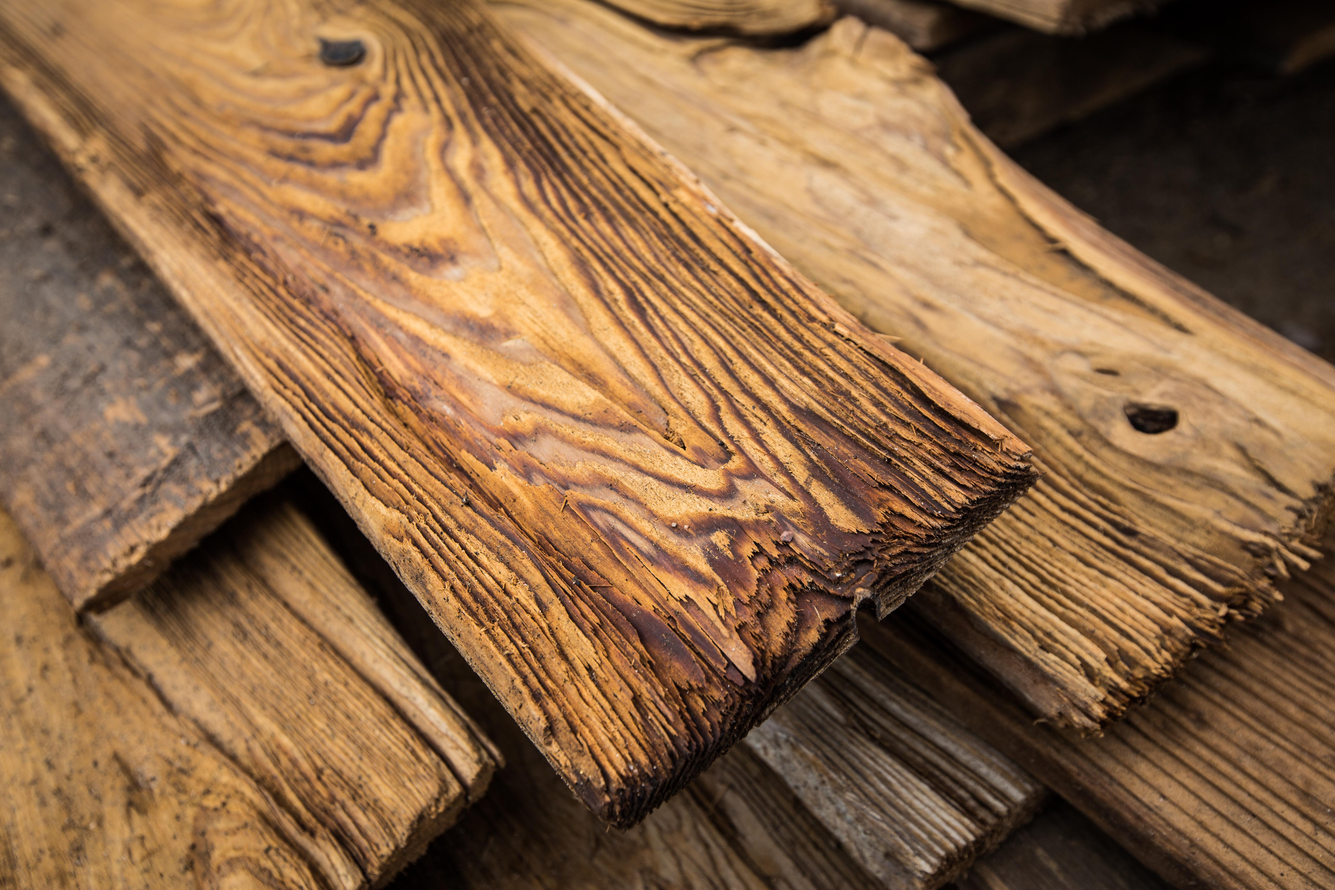
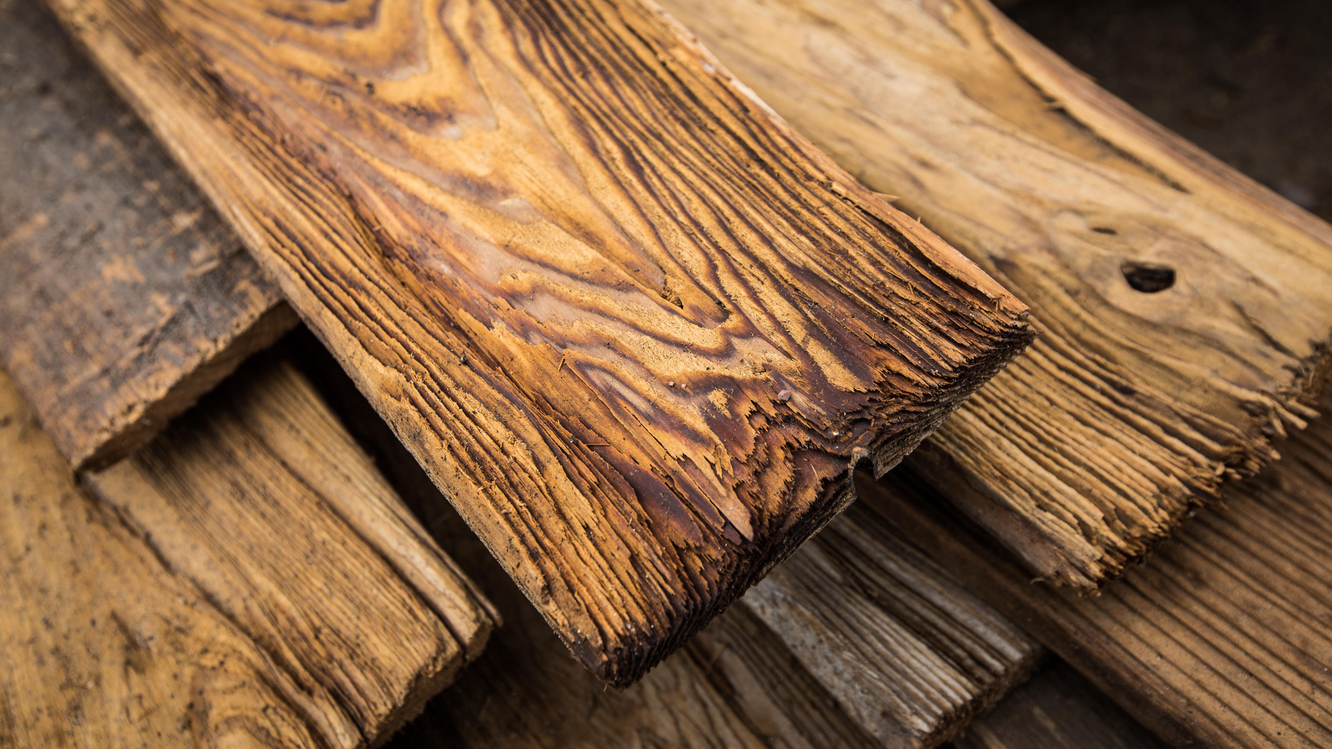
Made it prettier

diff --git a/src/app/app.component.html b/src/app/app.component.html
@@ -8,34 +8,40 @@
 
 <div id="about">
   <h2>About</h2>
-  <p>We tear down barns in mid Missouri. It's really great...</p>
+  <p>
+    We tear down barns in mid Missouri. It's really great...
+    We have wood, tin, and furniture made by 9th degree master carpenter Gerald Miner.
+  </p>
 </div>
 
 <div id="contact-info">
   <h2>Contact Info</h2>
-  <ul id=contact-details>
-    <li>Barn Lord</li>
-    <li>(XXX)-XXX-XXXX</li>
-    <li>email@email.com</li>
-  </ul>
+  <div id=contact-details>
+    <ul>
+      <li>David Miner</li>
+      <li>(660)-384-1301</li>
+      <li>dsminer@hotmail.com</li>
+    </ul>
+  </div>
 </div>
 
-<div id="wood">
+<div id="wood" class="pictures">
   <h2>Wood</h2>
-  <img class="nav-arrow" (click)="leftWood()" src="../images/left-arrow.svg">
-  <img [hidden]="IsHidden(1)" width="300" alt="Wood" src="../images/wood.jpg">
-  <img [hidden]="IsHidden(2)" width="300" alt="Wood" src="../images/wood1.jpg">
-  <img [hidden]="IsHidden(3)" width="300" alt="Wood" src="../images/wood2.jpg">
-  <img [hidden]="IsHidden(4)" width="300" alt="Wood" src="../images/wood4.jpg">
-  <img class="nav-arrow" (click)="rightWood()" src="../images/right-arrow.svg">
+  <img class="nav-arrow" [hidden]="!HasPicturesLeft()" (click)="leftWood()" src="../images/left-arrow.svg">
+  <img class="picture" [hidden]="IsHidden(1)" width="300" alt="Wood" src="../images/wood.jpg">
+  <img class="picture" [hidden]="IsHidden(2)" width="300" alt="Wood" src="../images/wood1.jpg">
+  <img class="picture" [hidden]="IsHidden(3)" width="300" alt="Wood" src="../images/wood2.jpg">
+  <img class="picture" [hidden]="IsHidden(4)" width="300" alt="Wood" src="../images/wood3.jpg">
+  <img class="picture" [hidden]="IsHidden(5)" width="300" alt="Wood" src="../images/wood4.jpg">
+  <img class="nav-arrow" [hidden]="!HasPicturesRight()" (click)="rightWood()" src="../images/right-arrow.svg">
 </div>
 
-<div id="furniture">
+<div id="furniture" class="pictures">
   <h2>Furniture</h2>
   <img width="300" alt="Table" src="../images/table.jpg">
 </div>
 
-<div id="tin">
+<div id="tin" class="pictures">
   <h2>Tin</h2>
   <img width="300" alt="Tin" src="../images/tin.jpg">
 </div>

diff --git a/src/app/app.component.ts b/src/app/app.component.ts
@@ -7,7 +7,7 @@ import { Component } from '@angular/core';
 })
 export class AppComponent {
 
-  private visibleWood: number[] = [1, 2, 3];
+  private visibleWood: number[] = [1];
 
   title = 'Bull Dog Barn Wood';
 
@@ -25,18 +25,26 @@ export class AppComponent {
     var second = first + 1;
     var last = first + 2;
 
-    this.visibleWood = [first, second, last];
+    this.visibleWood = [first];
   }
 
   rightWood() {
     var last = this.visibleWood[this.visibleWood.length - 1];
-    if (last === 4) {
+    if (last === 5) {
       return;
     }
 
     last++;
     var second = last - 1;
     var first = last - 2;
-    this.visibleWood = [first, second, last];
+    this.visibleWood = [last];
+  }
+
+  HasPicturesLeft() {
+    return this.visibleWood[0] > 1;
+  }
+
+  HasPicturesRight() {
+    return this.visibleWood[0] < 5;
   }
 }

diff --git a/src/app/app.component.sass b/src/app/app.component.sass
@@ -1,14 +1,21 @@
 #contact-info
   margin: 0 auto
-  width: 25%
 
 #contact-details
   text-align: left
+  width: 350px
+  margin: 0 auto
+
+.pictures
+  height: 80%
+  margin: 0 auto
+  min-width: 500px
 
 img
   margin-left: .5em
   margin-right: .5em
+  max-width: 60%
+  vertical-align: middle
 
 .nav-arrow
   cursor: pointer
-  padding-bottom: 5em

diff --git a/src/styles.sass b/src/styles.sass
@@ -13,3 +13,5 @@ body
   margin-bottom: 1em
   padding-top: 1em
   padding-bottom: 1em
+  padding-left: .5em
+  padding-right: .5em
